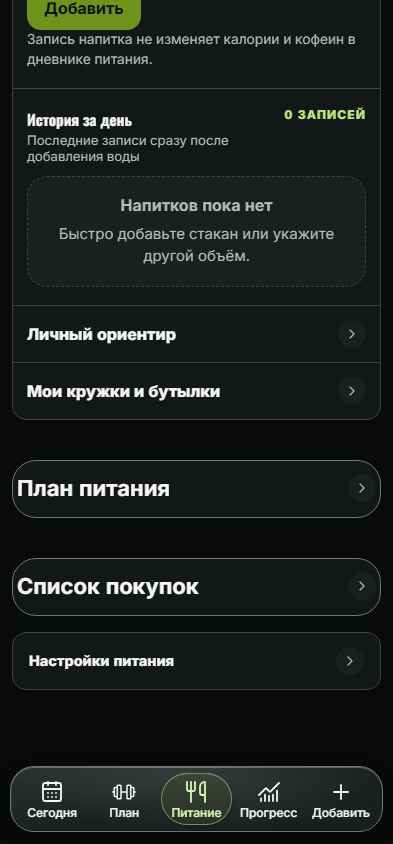
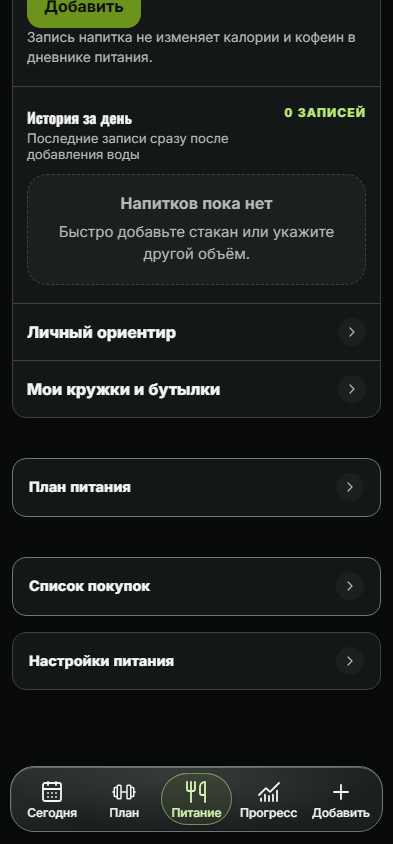
fix(ui): align nutrition cards with settings typography and corners (#1047)

diff --git a/frontend/tests/e2e/ui-backlog-869-870.spec.ts b/frontend/tests/e2e/ui-backlog-869-870.spec.ts
@@ -48,6 +48,39 @@ for (const theme of themes) {
           expect(style.borderWidths).toEqual(['1px', '1px', '1px', '1px']);
           expect(style.borderRadius).not.toBe('0px');
         }
+        // The planning cards use the same corner radius and heading typography
+        // as the nutrition settings card, rather than the large desktop headings.
+        const settings = page.locator('.nutrition-target-settings');
+        const settingsRadius = await settings.evaluate(
+          (element) => getComputedStyle(element).borderTopLeftRadius,
+        );
+        const settingsHeadingStyle = await settings
+          .locator(':scope > summary')
+          .evaluate((element) => {
+            const style = getComputedStyle(element);
+            return {
+              fontFamily: style.fontFamily,
+              fontSize: style.fontSize,
+              fontWeight: style.fontWeight,
+            };
+          });
+        for (const detail of await planningDetails.all()) {
+          const radius = await detail.evaluate(
+            (element) => getComputedStyle(element).borderTopLeftRadius,
+          );
+          expect(radius).toBe(settingsRadius);
+          const headingStyle = await detail
+            .locator(':scope > summary strong')
+            .evaluate((element) => {
+              const style = getComputedStyle(element);
+              return {
+                fontFamily: style.fontFamily,
+                fontSize: style.fontSize,
+                fontWeight: style.fontWeight,
+              };
+            });
+          expect(headingStyle).toEqual(settingsHeadingStyle);
+        }
       }
       for (const detail of await planningDetails.all()) {
         const summary = detail.locator(':scope > summary');

diff --git a/frontend/src/styles/ux-ia-redesign.css b/frontend/src/styles/ux-ia-redesign.css
@@ -1813,13 +1813,21 @@ body:has(.daily-wellbeing-card.card-disclosure[open]) .app-quick-add-trigger--fl
   }
   .nutrition-experience :is(.meal-planner, .grocery-list) {
     border: 1px solid var(--glass-edge);
-    border-radius: var(--radius-panel);
+    border-radius: var(--radius-control);
     background: var(--v2-surface);
     overflow: hidden;
   }
   .nutrition-experience :is(.meal-planner__summary, .grocery-list__summary) {
-    min-height: 56px;
-    padding: 8px 4px;
+    min-height: 46px;
+    padding: 14px 16px;
+    color: var(--text);
+    font-size: 0.9rem;
+    font-weight: 800;
+  }
+  .nutrition-experience :is(.meal-planner__summary, .grocery-list__summary) strong {
+    font-family: inherit;
+    font-size: inherit;
+    font-weight: inherit;
   }
   .nutrition-experience :is(.meal-planner__summary, .grocery-list__summary) .eyebrow {
     display: none;
